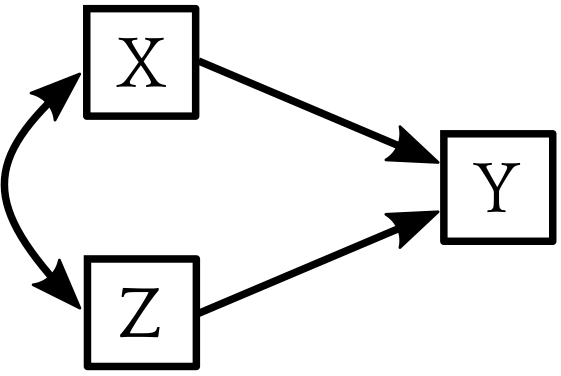
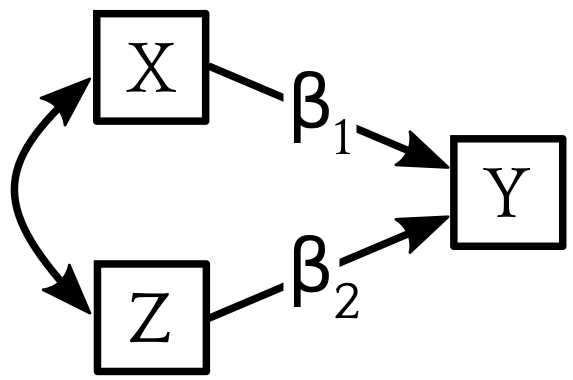
Images

diff --git a/multivariate_models.html b/multivariate_models.html
@@ -22,6 +22,57 @@ class: center, top, title-slide
 
 
 
+
+
+---
+# Intuition
+
+What is the predictive value of a variable, once I already know all of the other predictor variables?
+
+Purposes:
+
+1. **Controlling for confounders**
+
+2. **Capturing multiple causation**
+
+3. Measuring interactions (next week)
+
+---
+# A multivariate model
+
+&lt;img src="https://clanfear.github.io/multivariate_lecture/img/xzy_diagram.PNG" height=250 class="image-center"&gt;
+
+What do we measure?
+
+* `\(\beta_1\)` - slope relating `\(x\)` to `\(y\)` holding `\(z\)` constant ( `\(\frac{\delta y}{\delta x}\)` ).
+* `\(\beta_2\)` - slope relating `\(z\)` to `\(y\)` holding `\(z\)` constant ( `\(\frac{\delta y}{\delta z}\)` ).
+* Implicit: `\(\rho\)` - correlation between `\(x\)` and `\(z\)`
+
+---
+
+&lt;img src="https://clanfear.github.io/multivariate_lecture/img/xzy_spuriousness.PNG"&gt;
+
+Confounding
+* If a variable is correlated with an outcome
+
+---
+
+&lt;img src="https://clanfear.github.io/multivariate_lecture/img/xzy_masquerade.PNG"&gt;
+
+Multiple Causation
+* If two variables are correlated by predict an outcome in opposite ways, using only one attenuates its effect.
+    * This is a also a form of omitted variable bias. 
+
+---
+&lt;img src="https://clanfear.github.io/multivariate_lecture/img/xzy_collinearity.PNG"&gt;
+
+Multicollinearity
+* If two variables provide similar information, they are redundant and their effects difficult to separate.
+    * Redundancy doesn't hurt prediction--you get accurate posteriors.
+    * Redundancy hurts inference--you get large standard errors.
+    
+
+
 ---
 # Optimizer Example
 

diff --git a/xaringan-themer.css b/xaringan-themer.css
@@ -264,3 +264,9 @@ body {
   background-position: center center, center bottom;
   background-size: contain, contain;
 }
+.image-center {
+  display: block;
+  margin-left: auto;
+  margin-right: auto;
+  width: 50%;
+}
